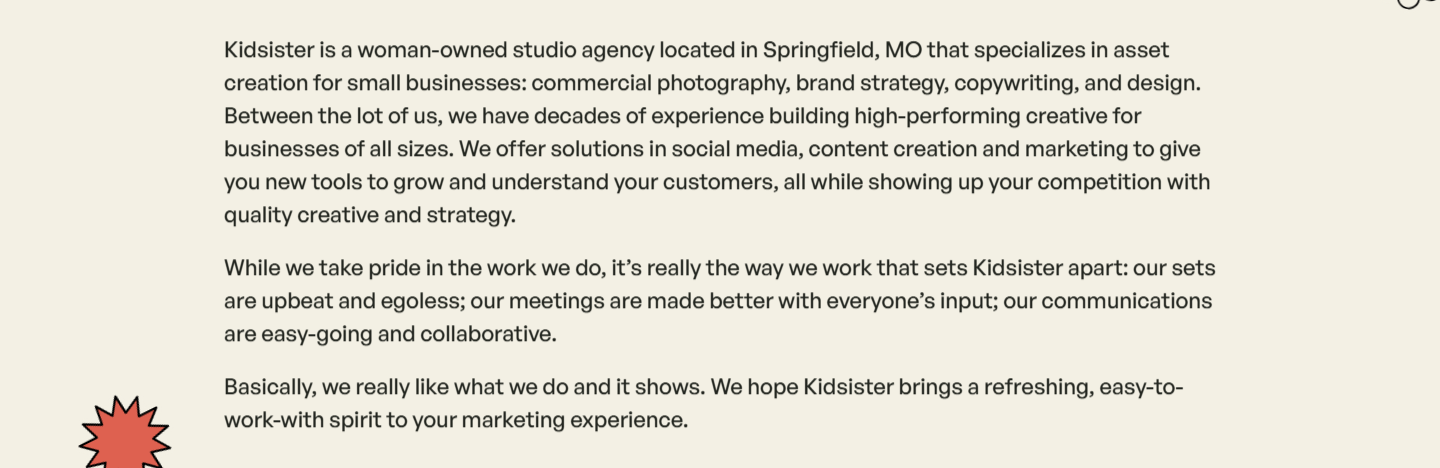
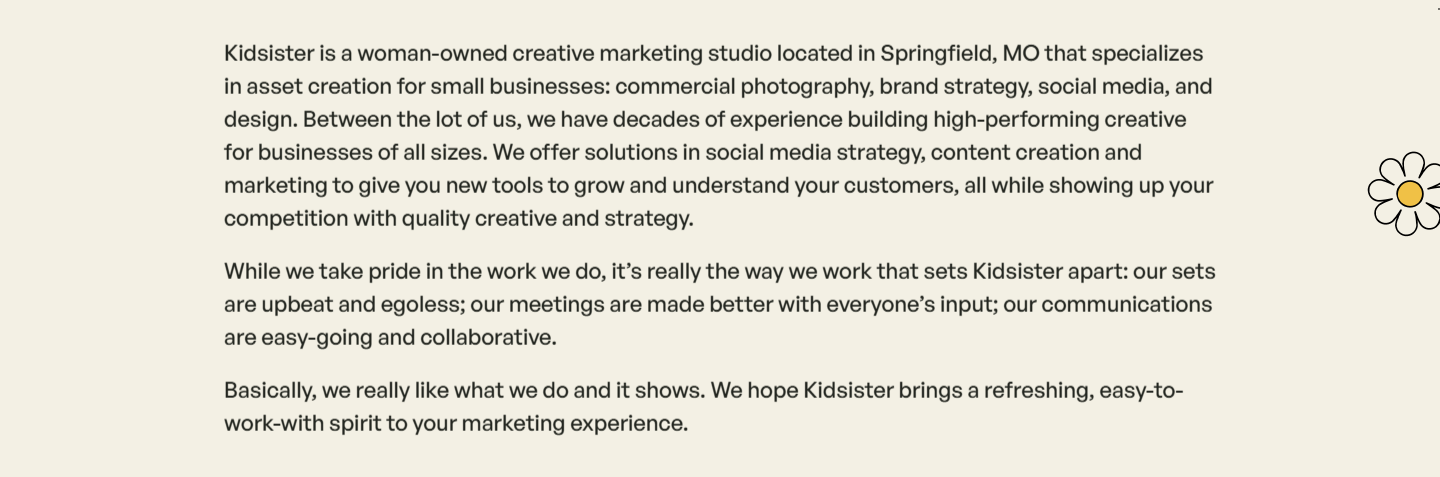
ks-part2 round 1 page: Bayless's 9/16 notes applied
Adds a "Your notes, applied" section at the top with one before/after pair per
note in her order, marks Services and the footer approved, and answers the Case
Studies question in plain words. Updates the About, Contact and homepage-title
pairs to the 9/16 wording and re-cuts the About and Contact preview shots.

diff --git a/ks-part2-7c3e91a4/round-1/index.html b/ks-part2-7c3e91a4/round-1/index.html
@@ -97,17 +97,27 @@ dl>div{grid-template-columns:1fr;gap:6px}.close{padding:56px 0}.close p{font-siz
 <h1>A few site updates to look over</h1>
 <p class="intro">Hey Bayless, I’ve got the wording updates ready to look through. The before and afters are below, along with a couple of drafts for our design call. These are on the preview site; kidsister.co hasn’t changed.</p>
 <a class="pill" href="https://teal-exercise-583649.framer.app/" target="_blank" rel="noopener">Open the preview ↗</a>
-<nav class="jump" aria-label="On this page"><a href="#wording">Wording changes</a><a href="#search-details">Search details</a><a href="#drafts">For our call</a><a href="#big-blanket">Big Blanket photos</a><a href="#remaining">Service pages</a><a href="#fixes">A few fixes</a></nav>
+<nav class="jump" aria-label="On this page"><a href="#notes">Your notes</a><a href="#wording">Wording changes</a><a href="#search-details">Search details</a><a href="#drafts">For our call</a><a href="#big-blanket">Big Blanket photos</a><a href="#remaining">Service pages</a><a href="#fixes">A few fixes</a></nav>
 </div>
+<section id="notes"><div class="wrap">
+<div class="section-intro"><p class="kicker">On the preview</p><h2>Your notes, applied</h2><p>Your notes from the 16th are in, in the order you sent them. Each changed sentence is here, and the fuller before and afters with screenshots are further down.</p></div>
+<article class="edit" id="note-studio"><div class="edit-head"><div><h3>Creative marketing studio</h3><p>“Studio agency” is off the site. Here is the homepage opening; About now reads the same way. The one “agency” left is inside Summer’s testimonial, since that is her quote.</p></div><a class="page-link" href="https://teal-exercise-583649.framer.app/" target="_blank" rel="noopener">View page ↗</a></div><div class="compare wording"><div><p class="label">Before</p><p>Kidsister is a creative studio agency in Springfield, MO that empowers businesses with high-quality content and strategy to amplify their brand and streamline their digital marketing.</p></div><div><p class="label">After</p><p>Kidsister is a creative marketing studio in Springfield, MO that empowers businesses with high-quality content and strategy to amplify their brand and streamline their digital marketing.</p></div></div></article>
+<article class="edit" id="note-about-services"><div class="edit-head"><div><h3>About: the core services</h3><p>Copywriting comes out of the list in the opening sentence and social media goes in.</p></div><a class="page-link" href="https://teal-exercise-583649.framer.app/about" target="_blank" rel="noopener">View page ↗</a></div><div class="compare wording"><div><p class="label">Before</p><p>commercial photography, brand strategy, copywriting, and design</p></div><div><p class="label">After</p><p>commercial photography, brand strategy, social media, and design</p></div></div></article>
+<article class="edit" id="note-about-solutions"><div class="edit-head"><div><h3>About: social media strategy</h3><p>The sentence about what you offer, later in the same paragraph.</p></div><a class="page-link" href="https://teal-exercise-583649.framer.app/about" target="_blank" rel="noopener">View page ↗</a></div><div class="compare wording"><div><p class="label">Before</p><p>We offer solutions in social media, content creation and marketing to give you new tools to grow and understand your customers, all while showing up your competition with quality creative and strategy.</p></div><div><p class="label">After</p><p>We offer solutions in social media strategy, content creation and marketing to give you new tools to grow and understand your customers, all while showing up your competition with quality creative and strategy.</p></div></div></article>
+<article class="edit" id="note-services"><div class="edit-head"><div><h3>The Services page</h3><p>Approved, unchanged. Nothing on it moved.</p></div><a class="page-link" href="https://teal-exercise-583649.framer.app/services" target="_blank" rel="noopener">View page ↗</a></div></article>
+<article class="edit" id="note-contact"><div class="edit-head"><div><h3>Contact: the opening</h3><p>Your wording, word for word. I closed the parenthesis at the end and took out the pointing hand, since the paragraph now finishes on the parenthesis rather than pointing at the form.</p></div><a class="page-link" href="https://teal-exercise-583649.framer.app/contact" target="_blank" rel="noopener">View page ↗</a></div><div class="compare wording"><div><p class="label">Before</p><p>We’re in Springfield, MO and we wanna hear all about what you’ve got goin’ on to see where we can jump in. 👇</p></div><div><p class="label">After</p><p>We work with clients in and around Springfield, MO and across the U.S. If you need a creative or strategy project in mind, we want to hear all about what you’ve got goin’ on. (Not sure where to start? We’d love to jump on a free 15-minute chat to get the ball rollin’.)</p></div></div></article>
+<article class="edit" id="note-footer"><div class="edit-head"><div><h3>The footer</h3><p>Approved, unchanged. It stays as it is.</p></div></div></article>
+<article class="manual" id="note-ready"><p class="kicker">Ready for the site</p><h3>The homepage title and the Case Studies listing</h3><p class="narrow">These two are written and go over with the rest of these updates. Your title is <a href="#homepage-title">further down this page</a>, next to the one it replaces.</p><p class="narrow">On Case Studies: the extra links under a Google result are chosen by Google, not set by the site. The business details now point Google at your Case Studies page, and nothing forces it to show. The business description picks up your wording at the same time.</p><div class="compare wording"><div><p class="label">Before</p><p>Kidsister is a woman-owned creative agency that empowers businesses with photography, design, social, strategy, and more to amplify your marketing.</p></div><div><p class="label">After</p><p>Kidsister is a woman-owned creative marketing studio in Springfield, MO that empowers businesses with photography, design, social media, brand strategy, and more.</p></div></div></article>
+</div></section>
 <section id="wording" class="band"><div class="wrap">
 <div class="section-intro"><p class="kicker">On the preview</p><h2>Location and service wording</h2><p>I added Springfield where it was missing and worked the service names into the About and Services copy. About already named Springfield, so I left that part alone.</p><p>Here’s each changed sentence, with a look at it on the page.</p></div>
-<article class="edit" id="about"><div class="edit-head"><div><h3>About</h3><p>The opening now names the services behind “asset creation.”</p></div><a class="page-link" href="https://teal-exercise-583649.framer.app/about" target="_blank" rel="noopener">View page ↗</a></div><div class="compare wording"><div><p class="label">Before</p><p>Kidsister is a woman-owned studio agency located in Springfield, MO that specializes in asset creation for small businesses.</p></div><div><p class="label">After</p><p>Kidsister is a woman-owned studio agency located in Springfield, MO that specializes in asset creation for small businesses: commercial photography, brand strategy, copywriting, and design.</p></div></div><div class="compare screenshots"><figure><figcaption>Before · kidsister.co</figcaption><a class="image-link" href="evidence/about-before-desktop.png" target="_blank" rel="noopener" aria-label="Open about before screenshot full size"><picture><source media="(max-width: 809px)" srcset="evidence/about-before-phone.png"><img src="evidence/about-before-desktop.png" alt="about: current site" loading="lazy"></picture></a></figure><figure><figcaption>After · preview</figcaption><a class="image-link" href="evidence/about-after-desktop.png" target="_blank" rel="noopener" aria-label="Open about after screenshot full size"><picture><source media="(max-width: 809px)" srcset="evidence/about-after-phone.png"><img src="evidence/about-after-desktop.png" alt="about: preview" loading="lazy"></picture></a></figure></div></article>
+<article class="edit" id="about"><div class="edit-head"><div><h3>About</h3><p>The opening names the services behind “asset creation,” in your latest wording.</p></div><a class="page-link" href="https://teal-exercise-583649.framer.app/about" target="_blank" rel="noopener">View page ↗</a></div><div class="compare wording"><div><p class="label">Before</p><p>Kidsister is a woman-owned studio agency located in Springfield, MO that specializes in asset creation for small businesses.</p></div><div><p class="label">After</p><p>Kidsister is a woman-owned creative marketing studio located in Springfield, MO that specializes in asset creation for small businesses: commercial photography, brand strategy, social media, and design.</p></div></div><div class="compare screenshots"><figure><figcaption>Before · kidsister.co</figcaption><a class="image-link" href="evidence/about-before-desktop.png" target="_blank" rel="noopener" aria-label="Open about before screenshot full size"><picture><source media="(max-width: 809px)" srcset="evidence/about-before-phone.png"><img src="evidence/about-before-desktop.png" alt="about: current site" loading="lazy"></picture></a></figure><figure><figcaption>After · preview</figcaption><a class="image-link" href="evidence/about-after-desktop.png" target="_blank" rel="noopener" aria-label="Open about after screenshot full size"><picture><source media="(max-width: 809px)" srcset="evidence/about-after-phone.png"><img src="evidence/about-after-desktop.png" alt="about: preview" loading="lazy"></picture></a></figure></div></article>
 <article class="edit" id="services-team"><div class="edit-head"><div><h3>Services: the team</h3><p>A little more detail about what the team does, in the existing paragraph.</p></div><a class="page-link" href="https://teal-exercise-583649.framer.app/services" target="_blank" rel="noopener">View page ↗</a></div><div class="compare wording"><div><p class="label">Before</p><p>We’re a lean, scrappy little team that churns out high-quality, high-performing content like it’s our job.</p></div><div><p class="label">After</p><p>We’re a lean, scrappy little team of photographers, designers, copywriters, and brand strategists that churns out high-quality, high-performing content like it’s our job.</p></div></div><div class="compare screenshots"><figure><figcaption>Before · kidsister.co</figcaption><a class="image-link" href="evidence/services-team-before-desktop.png" target="_blank" rel="noopener" aria-label="Open services-team before screenshot full size"><picture><source media="(max-width: 809px)" srcset="evidence/services-team-before-phone.png"><img src="evidence/services-team-before-desktop.png" alt="services team: current site" loading="lazy"></picture></a></figure><figure><figcaption>After · preview</figcaption><a class="image-link" href="evidence/services-team-after-desktop.png" target="_blank" rel="noopener" aria-label="Open services-team after screenshot full size"><picture><source media="(max-width: 809px)" srcset="evidence/services-team-after-phone.png"><img src="evidence/services-team-after-desktop.png" alt="services team: preview" loading="lazy"></picture></a></figure></div></article>
 <article class="edit" id="services-location"><div class="edit-head"><div><h3>Services: location</h3><p>Springfield is now in the closing paragraph, too.</p></div><a class="page-link" href="https://teal-exercise-583649.framer.app/services" target="_blank" rel="noopener">View page ↗</a></div><div class="compare wording"><div><p class="label">Before</p><p>Kidsister specializes in the services above, but that doesn't mean the ball stops there.</p></div><div><p class="label">After</p><p>Based in Springfield, Missouri, Kidsister specializes in the services above, but that doesn't mean the ball stops there.</p></div></div><div class="compare screenshots"><figure><figcaption>Before · kidsister.co</figcaption><a class="image-link" href="evidence/services-location-before-desktop.png" target="_blank" rel="noopener" aria-label="Open services-location before screenshot full size"><picture><source media="(max-width: 809px)" srcset="evidence/services-location-before-phone.png"><img src="evidence/services-location-before-desktop.png" alt="services location: current site" loading="lazy"></picture></a></figure><figure><figcaption>After · preview</figcaption><a class="image-link" href="evidence/services-location-after-desktop.png" target="_blank" rel="noopener" aria-label="Open services-location after screenshot full size"><picture><source media="(max-width: 809px)" srcset="evidence/services-location-after-phone.png"><img src="evidence/services-location-after-desktop.png" alt="services location: preview" loading="lazy"></picture></a></figure></div></article>
-<article class="edit" id="contact-intro"><div class="edit-head"><div><h3>Contact</h3><p>The introduction now says where you’re based.</p></div><a class="page-link" href="https://teal-exercise-583649.framer.app/contact" target="_blank" rel="noopener">View page ↗</a></div><div class="compare wording"><div><p class="label">Before</p><p>We wanna hear all about what you've got goin' on to see where we can jump in. 👇</p></div><div><p class="label">After</p><p>We’re in Springfield, MO and we wanna hear all about what you’ve got goin’ on to see where we can jump in. 👇</p></div></div><div class="compare screenshots"><figure><figcaption>Before · kidsister.co</figcaption><a class="image-link" href="evidence/contact-intro-before-desktop.png" target="_blank" rel="noopener" aria-label="Open contact-intro before screenshot full size"><picture><source media="(max-width: 809px)" srcset="evidence/contact-intro-before-phone.png"><img src="evidence/contact-intro-before-desktop.png" alt="contact intro: current site" loading="lazy"></picture></a></figure><figure><figcaption>After · preview</figcaption><a class="image-link" href="evidence/contact-intro-after-desktop.png" target="_blank" rel="noopener" aria-label="Open contact-intro after screenshot full size"><picture><source media="(max-width: 809px)" srcset="evidence/contact-intro-after-phone.png"><img src="evidence/contact-intro-after-desktop.png" alt="contact intro: preview" loading="lazy"></picture></a></figure></div></article>
+<article class="edit" id="contact-intro"><div class="edit-head"><div><h3>Contact</h3><p>The opening is your wording, and it still says where you work.</p></div><a class="page-link" href="https://teal-exercise-583649.framer.app/contact" target="_blank" rel="noopener">View page ↗</a></div><div class="compare wording"><div><p class="label">Before</p><p>We wanna hear all about what you've got goin' on to see where we can jump in. 👇</p></div><div><p class="label">After</p><p>We work with clients in and around Springfield, MO and across the U.S. If you need a creative or strategy project in mind, we want to hear all about what you’ve got goin’ on. (Not sure where to start? We’d love to jump on a free 15-minute chat to get the ball rollin’.)</p></div></div><div class="compare screenshots"><figure><figcaption>Before · kidsister.co</figcaption><a class="image-link" href="evidence/contact-intro-before-desktop.png" target="_blank" rel="noopener" aria-label="Open contact-intro before screenshot full size"><picture><source media="(max-width: 809px)" srcset="evidence/contact-intro-before-phone.png"><img src="evidence/contact-intro-before-desktop.png" alt="contact intro: current site" loading="lazy"></picture></a></figure><figure><figcaption>After · preview</figcaption><a class="image-link" href="evidence/contact-intro-after-desktop.png" target="_blank" rel="noopener" aria-label="Open contact-intro after screenshot full size"><picture><source media="(max-width: 809px)" srcset="evidence/contact-intro-after-phone.png"><img src="evidence/contact-intro-after-desktop.png" alt="contact intro: preview" loading="lazy"></picture></a></figure></div></article>
 <article class="edit" id="footer"><div class="edit-head"><div><h3>The footer</h3><p>The location line appears across the site.</p></div><a class="page-link" href="https://teal-exercise-583649.framer.app/" target="_blank" rel="noopener">View the preview ↗</a></div><div class="compare wording"><div><p class="label">Before</p><p>© 2026 Kidsister</p></div><div><p class="label">After</p><p>© 2026 Kidsister, Springfield, MO</p></div></div><div class="compare screenshots"><figure><figcaption>Before · kidsister.co</figcaption><a class="image-link" href="evidence/footer-before-desktop.png" target="_blank" rel="noopener" aria-label="Open footer before screenshot full size"><picture><source media="(max-width: 809px)" srcset="evidence/footer-before-phone.png"><img src="evidence/footer-before-desktop.png" alt="footer: current site" loading="lazy"></picture></a></figure><figure><figcaption>After · preview</figcaption><a class="image-link" href="evidence/footer-after-desktop.png" target="_blank" rel="noopener" aria-label="Open footer after screenshot full size"><picture><source media="(max-width: 809px)" srcset="evidence/footer-after-phone.png"><img src="evidence/footer-after-desktop.png" alt="footer: preview" loading="lazy"></picture></a></figure></div></article>
 <p class="image-note">Tap any screenshot to open it full size. Phone screenshots appear on smaller screens; desktop screenshots appear on wider screens.</p>
-<article class="manual" id="homepage-title"><p class="kicker">On the preview</p><h3>The homepage title</h3><p class="narrow">This is the title used by the browser and available to search engines, rather than the heading on the page. It’s on the preview now and goes live with the rest.</p><div class="compare wording"><div><p class="label">Before</p><p>Kidsister | Woman-Owned, Creative-Led Marketing Content</p></div><div><p class="label">After</p><p>Kidsister | Woman-Owned Marketing Studio in Springfield, MO</p></div></div></article>
+<article class="manual" id="homepage-title"><p class="kicker">Ready for the site</p><h3>The homepage title</h3><p class="narrow">This is the title used by the browser and available to search engines, rather than the heading on the page. It is written and goes over with the rest of these updates.</p><div class="compare wording"><div><p class="label">Before</p><p>Kidsister | Woman-Owned Marketing Studio in Springfield, MO</p></div><div><p class="label">After</p><p>Kidsister | Woman-Owned Creative Marketing Studio in Springfield, MO</p></div></div></article>
 </div></section>
 <section id="search-details"><div class="wrap">
 <div class="section-intro"><p class="kicker">On the preview</p><h2>Business details for search engines</h2><p>I’ve added the structured data to the preview. It gives search engines your business details and social profiles in a format they can read. It won’t change how the pages look.</p></div>
